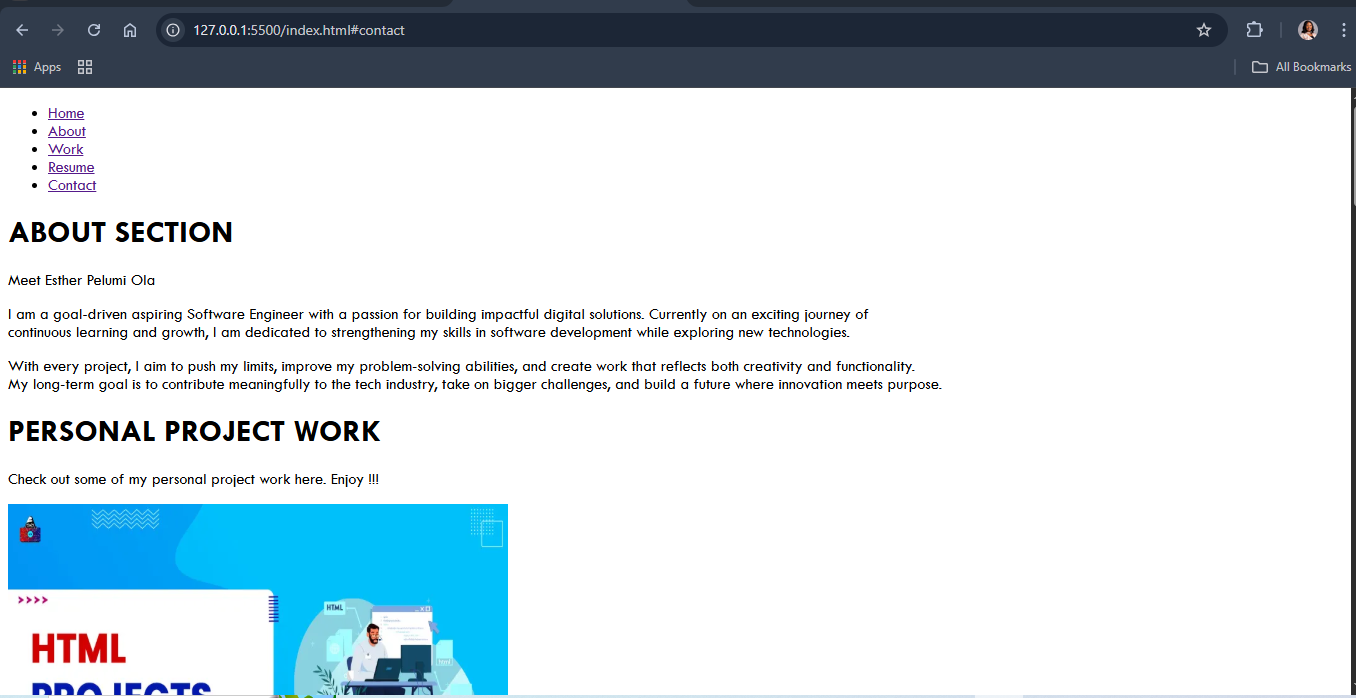
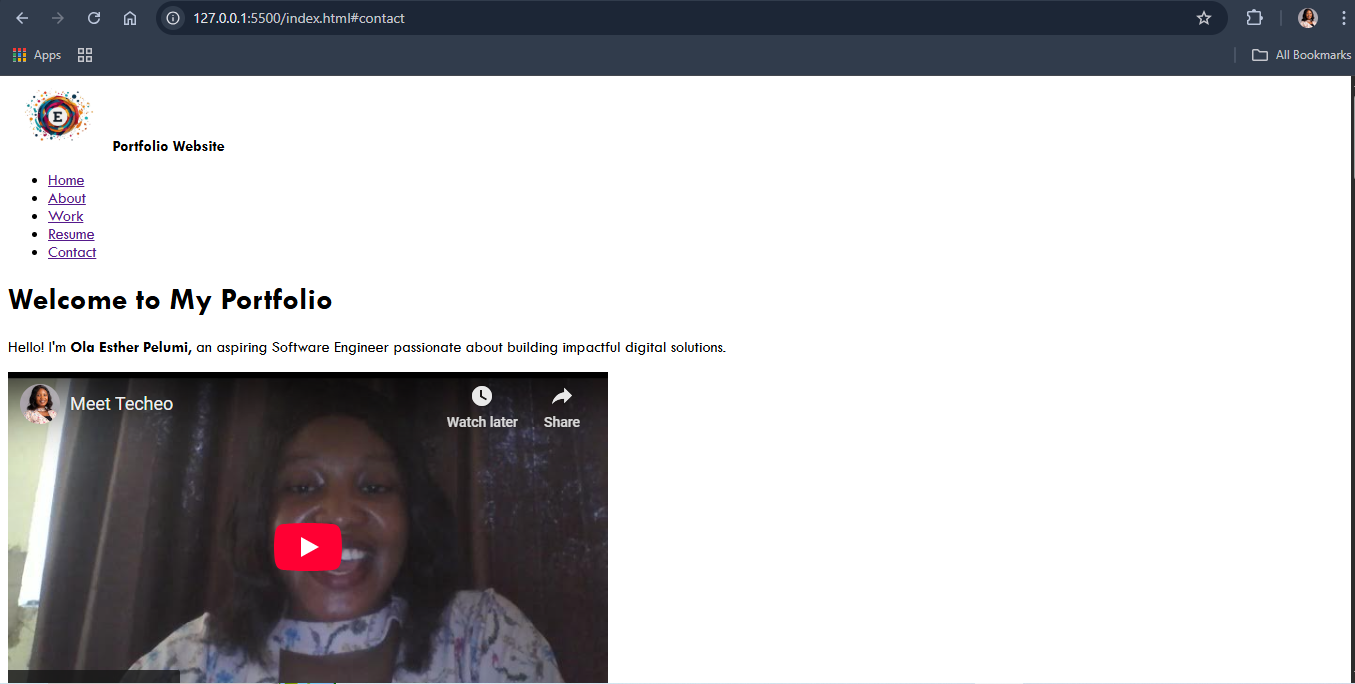
html project checkpoint

diff --git a/index.html b/index.html
@@ -7,6 +7,10 @@
   </head>
   <body>
     <header>
+      <div>
+        <img src="./image/logo-icon-nav.png" alt="logo" width="100" />
+        <span><b>Portfolio Website</b></span>
+      </div>
       <nav>
         <ul>
           <li><a href="#">Home</a></li>
@@ -19,6 +23,26 @@
     </header>
 
     <main>
+      <!-- Hero Section -->
+      <section id="home">
+        <h1>Welcome to My Portfolio</h1>
+        <p>
+          Hello! I'm <strong>Ola Esther Pelumi</strong>, an aspiring Software
+          Engineer passionate about building impactful digital solutions.
+        </p>
+
+        <iframe
+          width="600"
+          height="350"
+          src="https://www.youtube.com/embed/x0UTJ7pqZaM"
+          title="YouTube video player"
+          frameborder="0"
+          allow="accelerometer; autoplay; clipboard-write; encrypted-media; gyroscope; picture-in-picture"
+          allowfullscreen
+        >
+        </iframe>
+      </section>
+
       <section id="about">
         <div class="aboutText">
           <div class="aboutHeader">

diff --git a/README.md b/README.md
@@ -41,6 +41,8 @@ No server setup or dependencies are required since this project is built with **
  ![First Screenshot](image/screenshot001.png)
 ![Second Screenshot](image/screenshot002.png)
 ![Third Screenshot](image/screenshot003.png)
+![Third Screenshot](image/screenshot004.png)
+![Third Screenshot](image/screenshot005.png)
 
 ## Technologies Used
 
